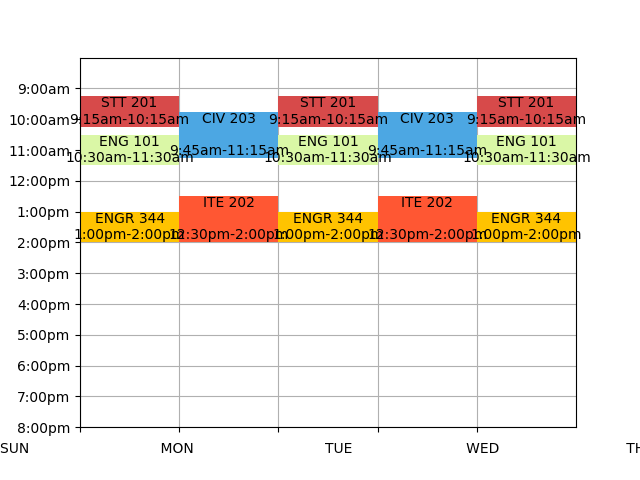
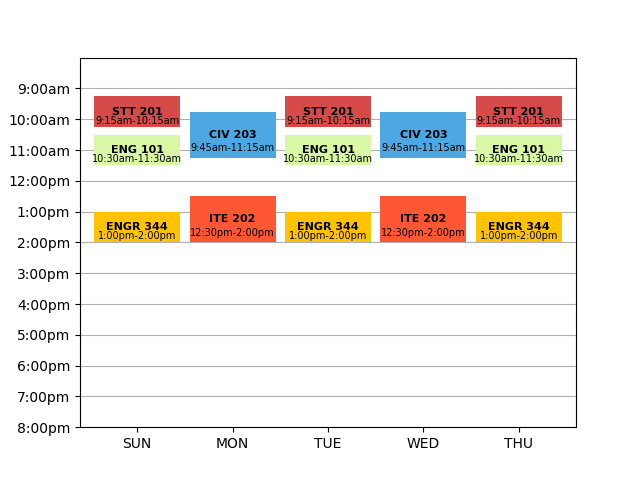
fixed and added a good readme along with a main.py file

diff --git a/main.py b/main.py
@@ -1,0 +1,248 @@
+from __future__ import print_function
+import re
+import pdfplumber
+import time
+import matplotlib.pyplot as plt
+import numpy as np
+import sys
+import os.path
+from google.auth.transport.requests import Request
+from google.oauth2.credentials import Credentials
+from google_auth_oauthlib.flow import InstalledAppFlow
+from googleapiclient.discovery import build
+from googleapiclient.errors import HttpError
+
+if __name__ == '__main__':
+    filename = sys.argv[1];
+    with pdfplumber.open(filename) as pdf:   #open the schedule pdf and extract its text
+        page = pdf.pages[0]
+        text = page.extract_text()
+
+    tet = text.split("\n")
+    prog = re.compile(r'[A-Z]{2,5} [0-9]{3}')      #parameters for the course title
+    dayprog = re.compile(r'\bSUN|MON|TUE|WED|THU')  #parameters for the days
+    cls = prog.findall(text)
+
+    courses = [["", "","",""],["", "","",""],["", "","",""],["", "","",""],["", "","",""],["", "","",""]];    #empty matrix for keeping the information gathered(title and day)
+
+    i = -1;
+    x= 0;
+
+    for line in tet:    #reads the text line by line
+        if prog.findall(line):
+            coursename = prog.findall(line); #takes the title first at the begingning of every array
+            x=0;
+            i= i+1;
+            courses[i][0] = coursename
+            
+        if dayprog.findall(line):   #takes the day and puts it after the title so that they stay relative
+            x= x+1;
+            courses[i][x] = (dayprog.findall(line))
+            
+    hour = [];
+    prog = re.compile(r'[0-9]{1,2}[:][0-9]{2}[a-z]{2}.')     #extracts the hours when the class starts and ends (in the correct order)
+    for line in text.split():
+        if prog.match(line):
+            hour.append(line);
+
+    loc = []; 
+    locprog = re.compile(r'\b[A-B]-')
+    for line in text.split():
+        if locprog.match(line):
+            loc.append(line);
+
+    b=hour;
+    entry =[re.split("-", entry, maxsplit=9) for entry in b]  #removes the dash from the hours and seprates them
+
+    shourz = [];
+    ehourz = [];
+
+    sount =0;
+    newhour = [];
+    start= [];
+    end= [];
+    count = 0;
+
+    for string in entry:   
+        for lime in string:
+            def convert(time_string):
+                date_var = time.strptime(time_string, '%I:%M%p')      #turns the hours to 24 hours and splits the minutes
+
+                return date_var
+
+            my_time = convert(lime)
+            
+            
+            if my_time.tm_min == 15:                      #changes the minutes to deciml points for the graph
+                newhour.append(my_time.tm_hour + .25);
+                
+            if my_time.tm_min == 30:
+                newhour.append(my_time.tm_hour + .5);
+                
+            if my_time.tm_min == 45:
+                newhour.append(my_time.tm_hour + .75);
+                
+            if my_time.tm_min == 0:
+                newhour.append(my_time.tm_hour); 
+                
+            
+            if sount == 0:                              #puts the odd in start and the even to the end
+                start.append(newhour[count]); 
+                shourz.append(str(my_time.tm_hour)+":"+str(my_time.tm_min))
+                sount = 1; 
+            else:
+                end.append(newhour[count]); 
+                ehourz.append(str(my_time.tm_hour)+":"+str(my_time.tm_min))
+                sount = 0; 
+            
+            
+            count+=1;
+
+    last = []; 
+    for i, j in zip(end,start):
+    
+        last.append(i - j)                          #finds out how long each class lasts for
+
+
+    SCOPES = ['https://www.googleapis.com/auth/calendar']
+
+    def CreateGoogleEvent(i, x, date):
+                creds = None
+                if os.path.exists('token.json'):
+                    creds = Credentials.from_authorized_user_file('token.json', SCOPES)
+            
+                if not creds or not creds.valid:
+                    if creds and creds.expired and creds.refresh_token:
+                        creds.refresh(Request())
+                    else:
+                        flow = InstalledAppFlow.from_client_secrets_file(
+                            'credintials.json', SCOPES)
+                        creds = flow.run_local_server(port=0)
+                    with open('token.json', 'w') as token:
+                        token.write(creds.to_json())
+
+                try:
+                    service = build('calendar', 'v3', credentials=creds)
+                    event = {
+                        'summary': cls[i],
+                        'location': loc[x],
+                        'start': {
+                            'dateTime': date+'T'+shourz[x]+':00',
+                            'timeZone': 'Etc/GMT-3',
+                        },
+                        'end': {
+                            'dateTime': date+'T'+ehourz[x]+':00',
+                            'timeZone': 'Etc/GMT-3',
+                        },
+                        'recurrence': [
+                            'RRULE:FREQ=WEEKLY;COUNT=16'
+                        ],
+                        'reminders': {
+                            'useDefault': False,
+                            'overrides': [
+                            {'method': 'popup', 'minutes': 15},
+                            ],
+                        },
+                        }
+
+                    event = service.events().insert(calendarId='primary', body=event).execute()
+                    print('Event created: %s' % (event.get('htmlLink')))
+
+                except HttpError as error:
+                    print('An error occurred: %s' % error)
+
+
+    fig, gnt = plt.subplots()
+
+    # Setting X-axis limits
+    gnt.set_xlim(-0.1, 5.1)
+    gnt.set_ylim(8, 20)
+
+    # Setting labels for x-axis and y-axis 
+    #gnt.set_xlabel('SUN                              MON                              TUE                          WED                             THU')
+    gnt.set_ylabel('time')
+
+    ax = plt.gca()
+    ax.invert_yaxis()
+
+    # Setting ticks on y-axis
+    gnt.set_yticks([9, 10,11, 12, 13, 14, 15, 16, 17, 18, 19, 20])
+
+    # Labelling tickes of y-axis
+    gnt.set_yticklabels(['9:00am', '10:00am', '11:00am','12:00pm','1:00pm','2:00pm','3:00pm','4:00pm','5:00pm','6:00pm','7:00pm', '8:00pm'])
+
+    gnt.set_xticks([0.5, 1.5, 2.5, 3.5, 4.5])
+    gnt.set_xticklabels(['SUN', 'MON', 'TUE', 'WED', 'THU'])  #labels the x-axis with the days of the week
+
+    # Setting graph attribute and colours 
+    gnt.grid(True)
+    gnt.grid(True, axis='y')  # Only show horizontal grid lines
+    gnt.grid(False, axis='x')  # Hide vertical grid lines to avoid confusion with tick marks
+    colour= ['#4CA7E3', '#DAF7A6', '#FFC300', '#FF5733', '#D74A4A', 'tab:Green']
+
+    # Function to estimate text width and adjust bar width
+    def get_text_width(text, fontsize=10):
+        return max(0.8, len(str(text)) * 0.08)
+
+    # Declaring a bar in schedule
+    i=0;
+    x=0;
+    date = "";
+    bar_padding = 0.05  # Small padding around bars
+    while(i<6 and i < len(courses) and i < len(cls)):         #inputs the courses as broken bars 
+        col = colour[i];
+        for day in courses[i]:
+            # Calculate bar width based on text content
+            course_text = str(cls[i]) if i < len(cls) and cls[i] else ""
+            time_text = str(hour[x]) if x < len(hour) else ""
+            text_width = max(get_text_width(course_text), get_text_width(time_text))
+            
+            # Ensure bar width doesn't exceed day column (0.9 max width)
+            bar_width = min(text_width, 0.9)
+            
+            if day == ["SUN"]:              # checks days to graphs them
+                bar_start = 0.5 - bar_width/2
+                gnt.broken_barh([(bar_start, bar_width)], (start[x], last[x]), facecolors =col)
+                plt.text(0.5, start[x] + last[x]/2, course_text, ha="center", va="center", fontsize=8, weight='bold')      #course title
+                plt.text(0.5, start[x] + last[x]*0.8, time_text, ha="center", va="center", fontsize=7)    #course timing
+                date = "2023-09-03";
+                #CreateGoogleEvent(i,x, date)
+                x=x+1;
+            elif day == ["MON"]:
+                bar_start = 1.5 - bar_width/2
+                gnt.broken_barh([(bar_start, bar_width)], (start[x], last[x]), facecolors =col)
+                plt.text(1.5, start[x] + last[x]/2, course_text, ha="center", va="center", fontsize=8, weight='bold')
+                plt.text(1.5, start[x] + last[x]*0.8, time_text, ha="center", va="center", fontsize=7)
+                date = "2023-09-04";
+                #CreateGoogleEvent(i,x, date)
+                x=x+1;
+            elif day == ["TUE"]:
+                bar_start = 2.5 - bar_width/2
+                gnt.broken_barh([(bar_start, bar_width)], (start[x], last[x]), facecolors =col)
+                plt.text(2.5, start[x] + last[x]/2, course_text, ha="center", va="center", fontsize=8, weight='bold')
+                plt.text(2.5, start[x] + last[x]*0.8, time_text, ha="center", va="center", fontsize=7)
+                date = "2023-09-05";
+                #CreateGoogleEvent(i,x, date)
+                x=x+1;
+            elif day == ["WED"]:
+                bar_start = 3.5 - bar_width/2
+                gnt.broken_barh([(bar_start, bar_width)], (start[x], last[x]), facecolors =col)
+                plt.text(3.5, start[x] + last[x]/2, course_text, ha="center", va="center", fontsize=8, weight='bold')
+                plt.text(3.5, start[x] + last[x]*0.8, time_text, ha="center", va="center", fontsize=7)
+                date = "2023-09-06";
+                #CreateGoogleEvent(i,x,date)
+                x=x+1;
+            elif day == ["THU"]:
+                bar_start = 4.5 - bar_width/2
+                gnt.broken_barh([(bar_start, bar_width)], (start[x], last[x]), facecolors =col)
+                plt.text(4.5, start[x] + last[x]/2, course_text, ha="center", va="center", fontsize=8, weight='bold')
+                plt.text(4.5, start[x] + last[x]*0.8, time_text, ha="center", va="center", fontsize=7)
+                date = "2023-09-07";
+                #CreateGoogleEvent(i,x,date)
+                x=x+1;
+        i=i+1;
+
+    
+    gnt.set_axisbelow(True)
+    plt.rcParams["figure.figsize"] = (10,7)  #resizes the graph
+    plt.savefig("schdule.png")

diff --git a/tempCodeRunnerFile.py b/tempCodeRunnerFile.py
@@ -1,0 +1,1 @@
+.05  # Small padding around bars
